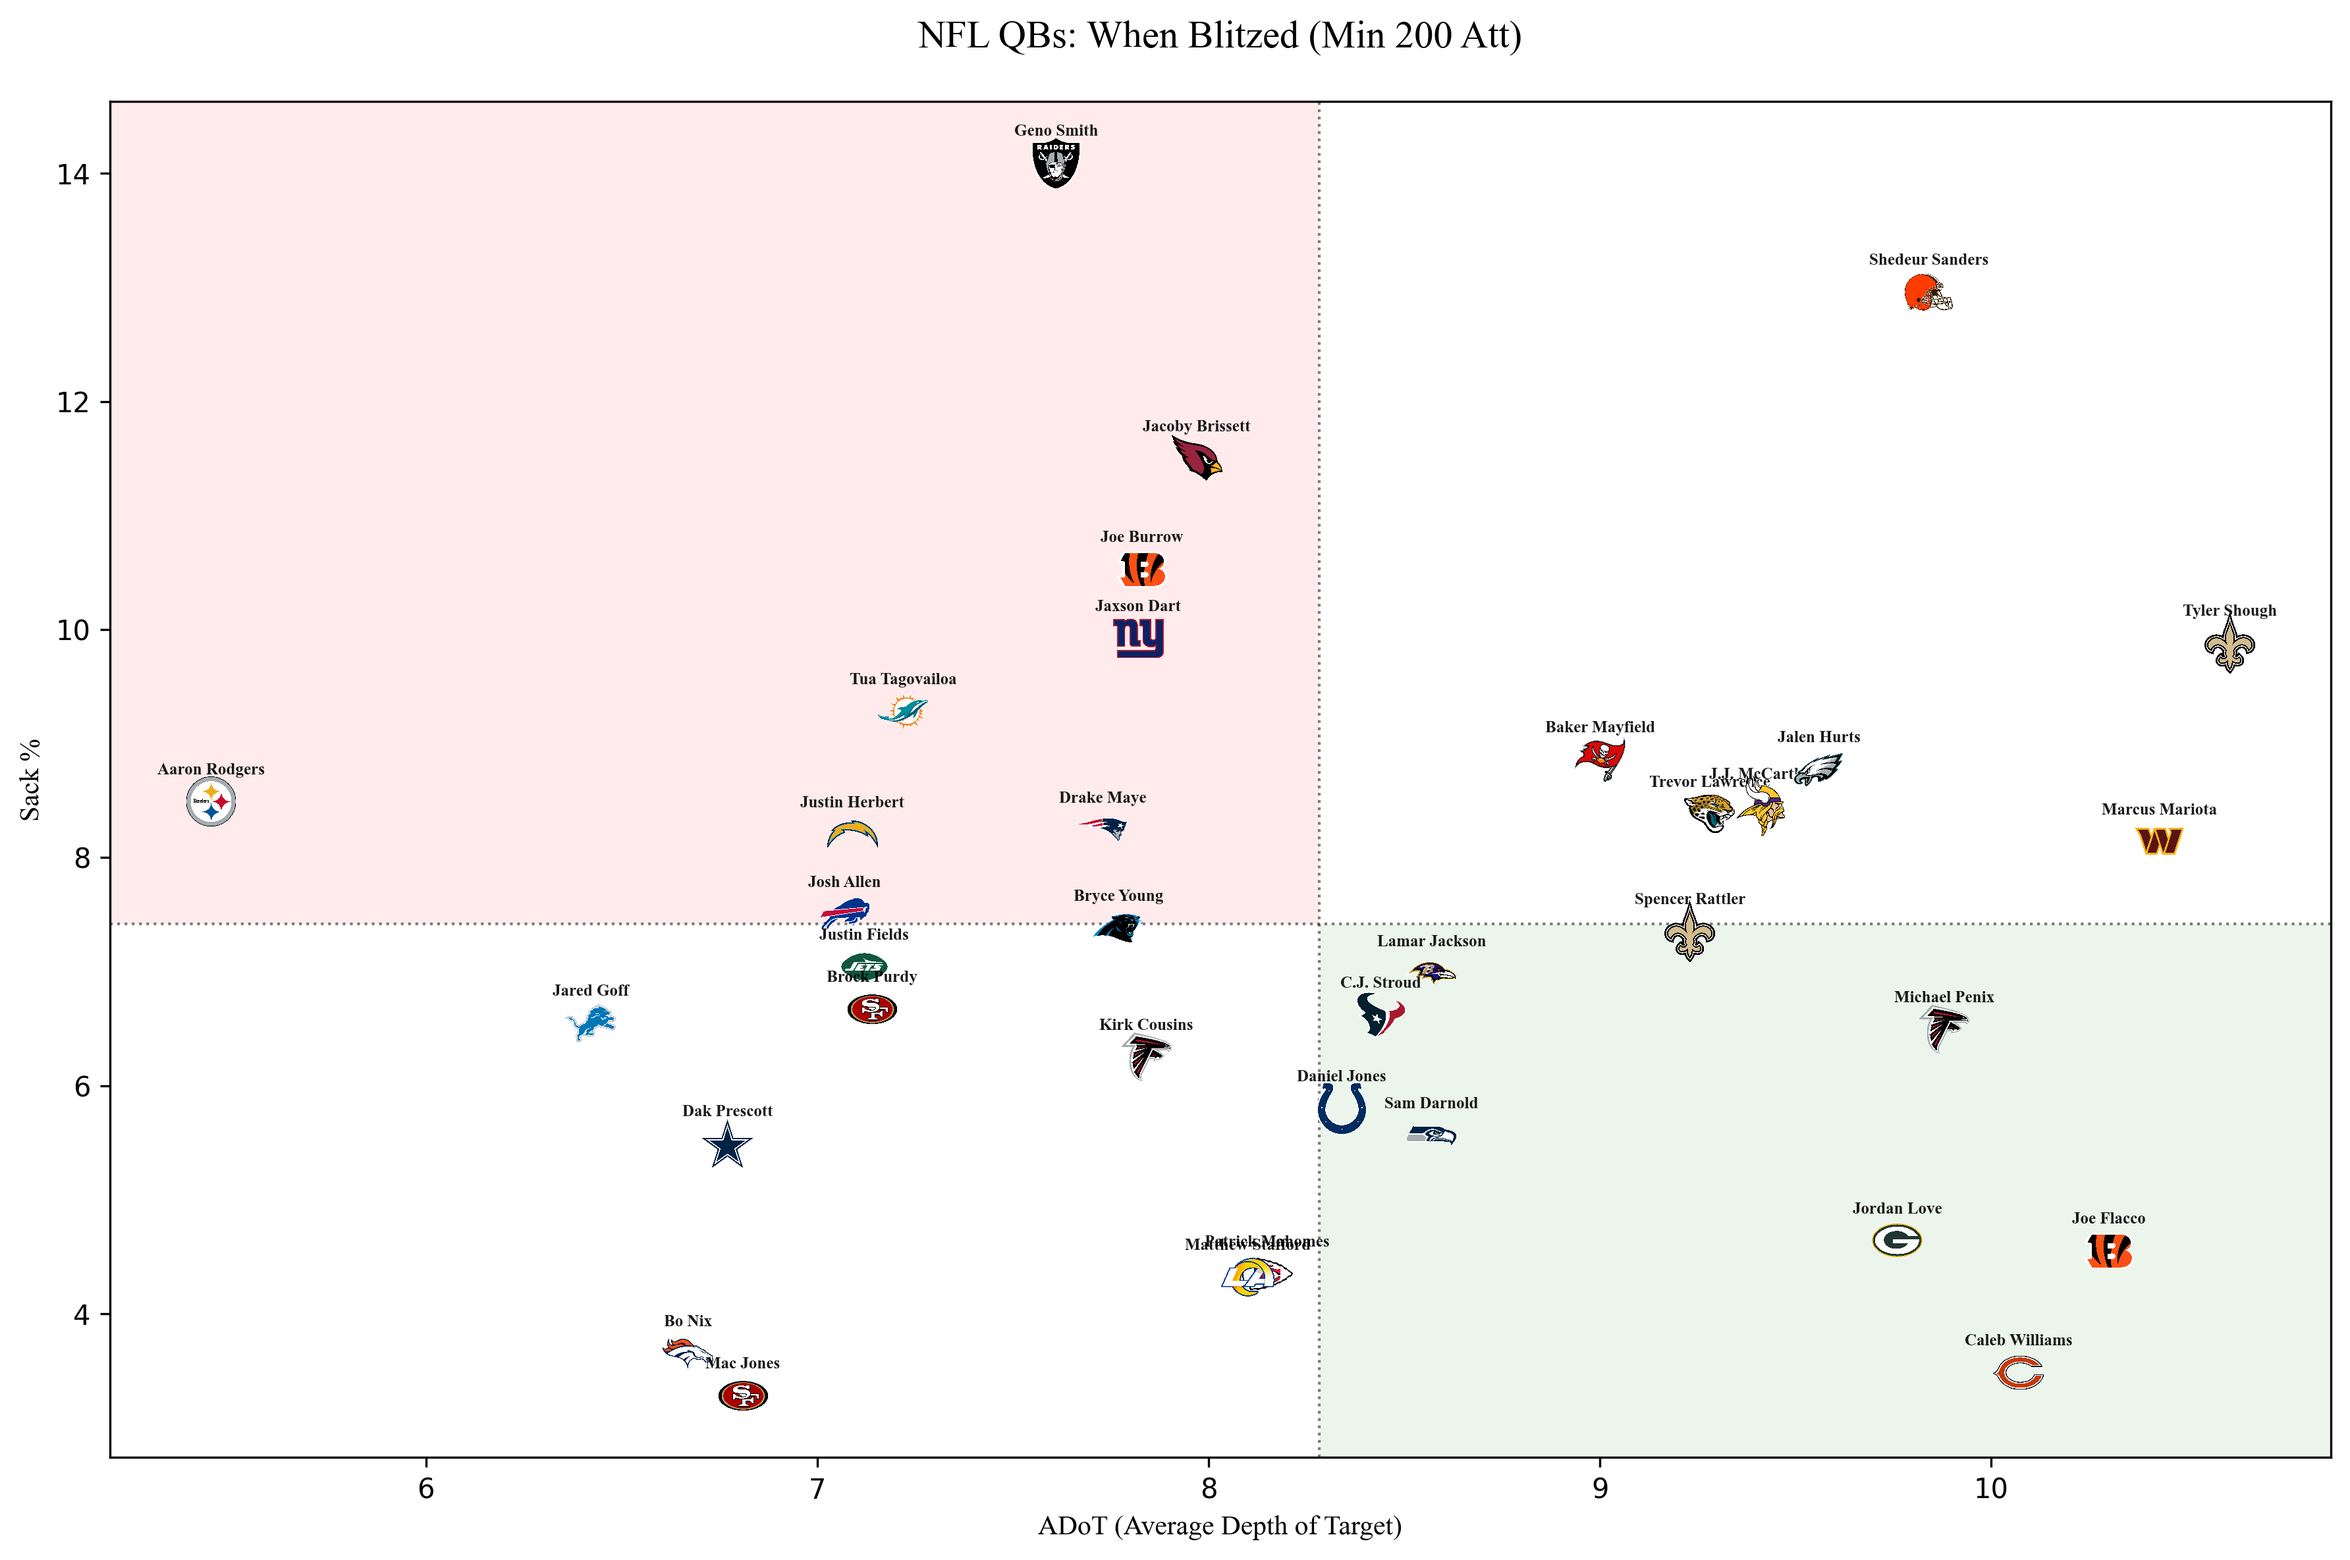
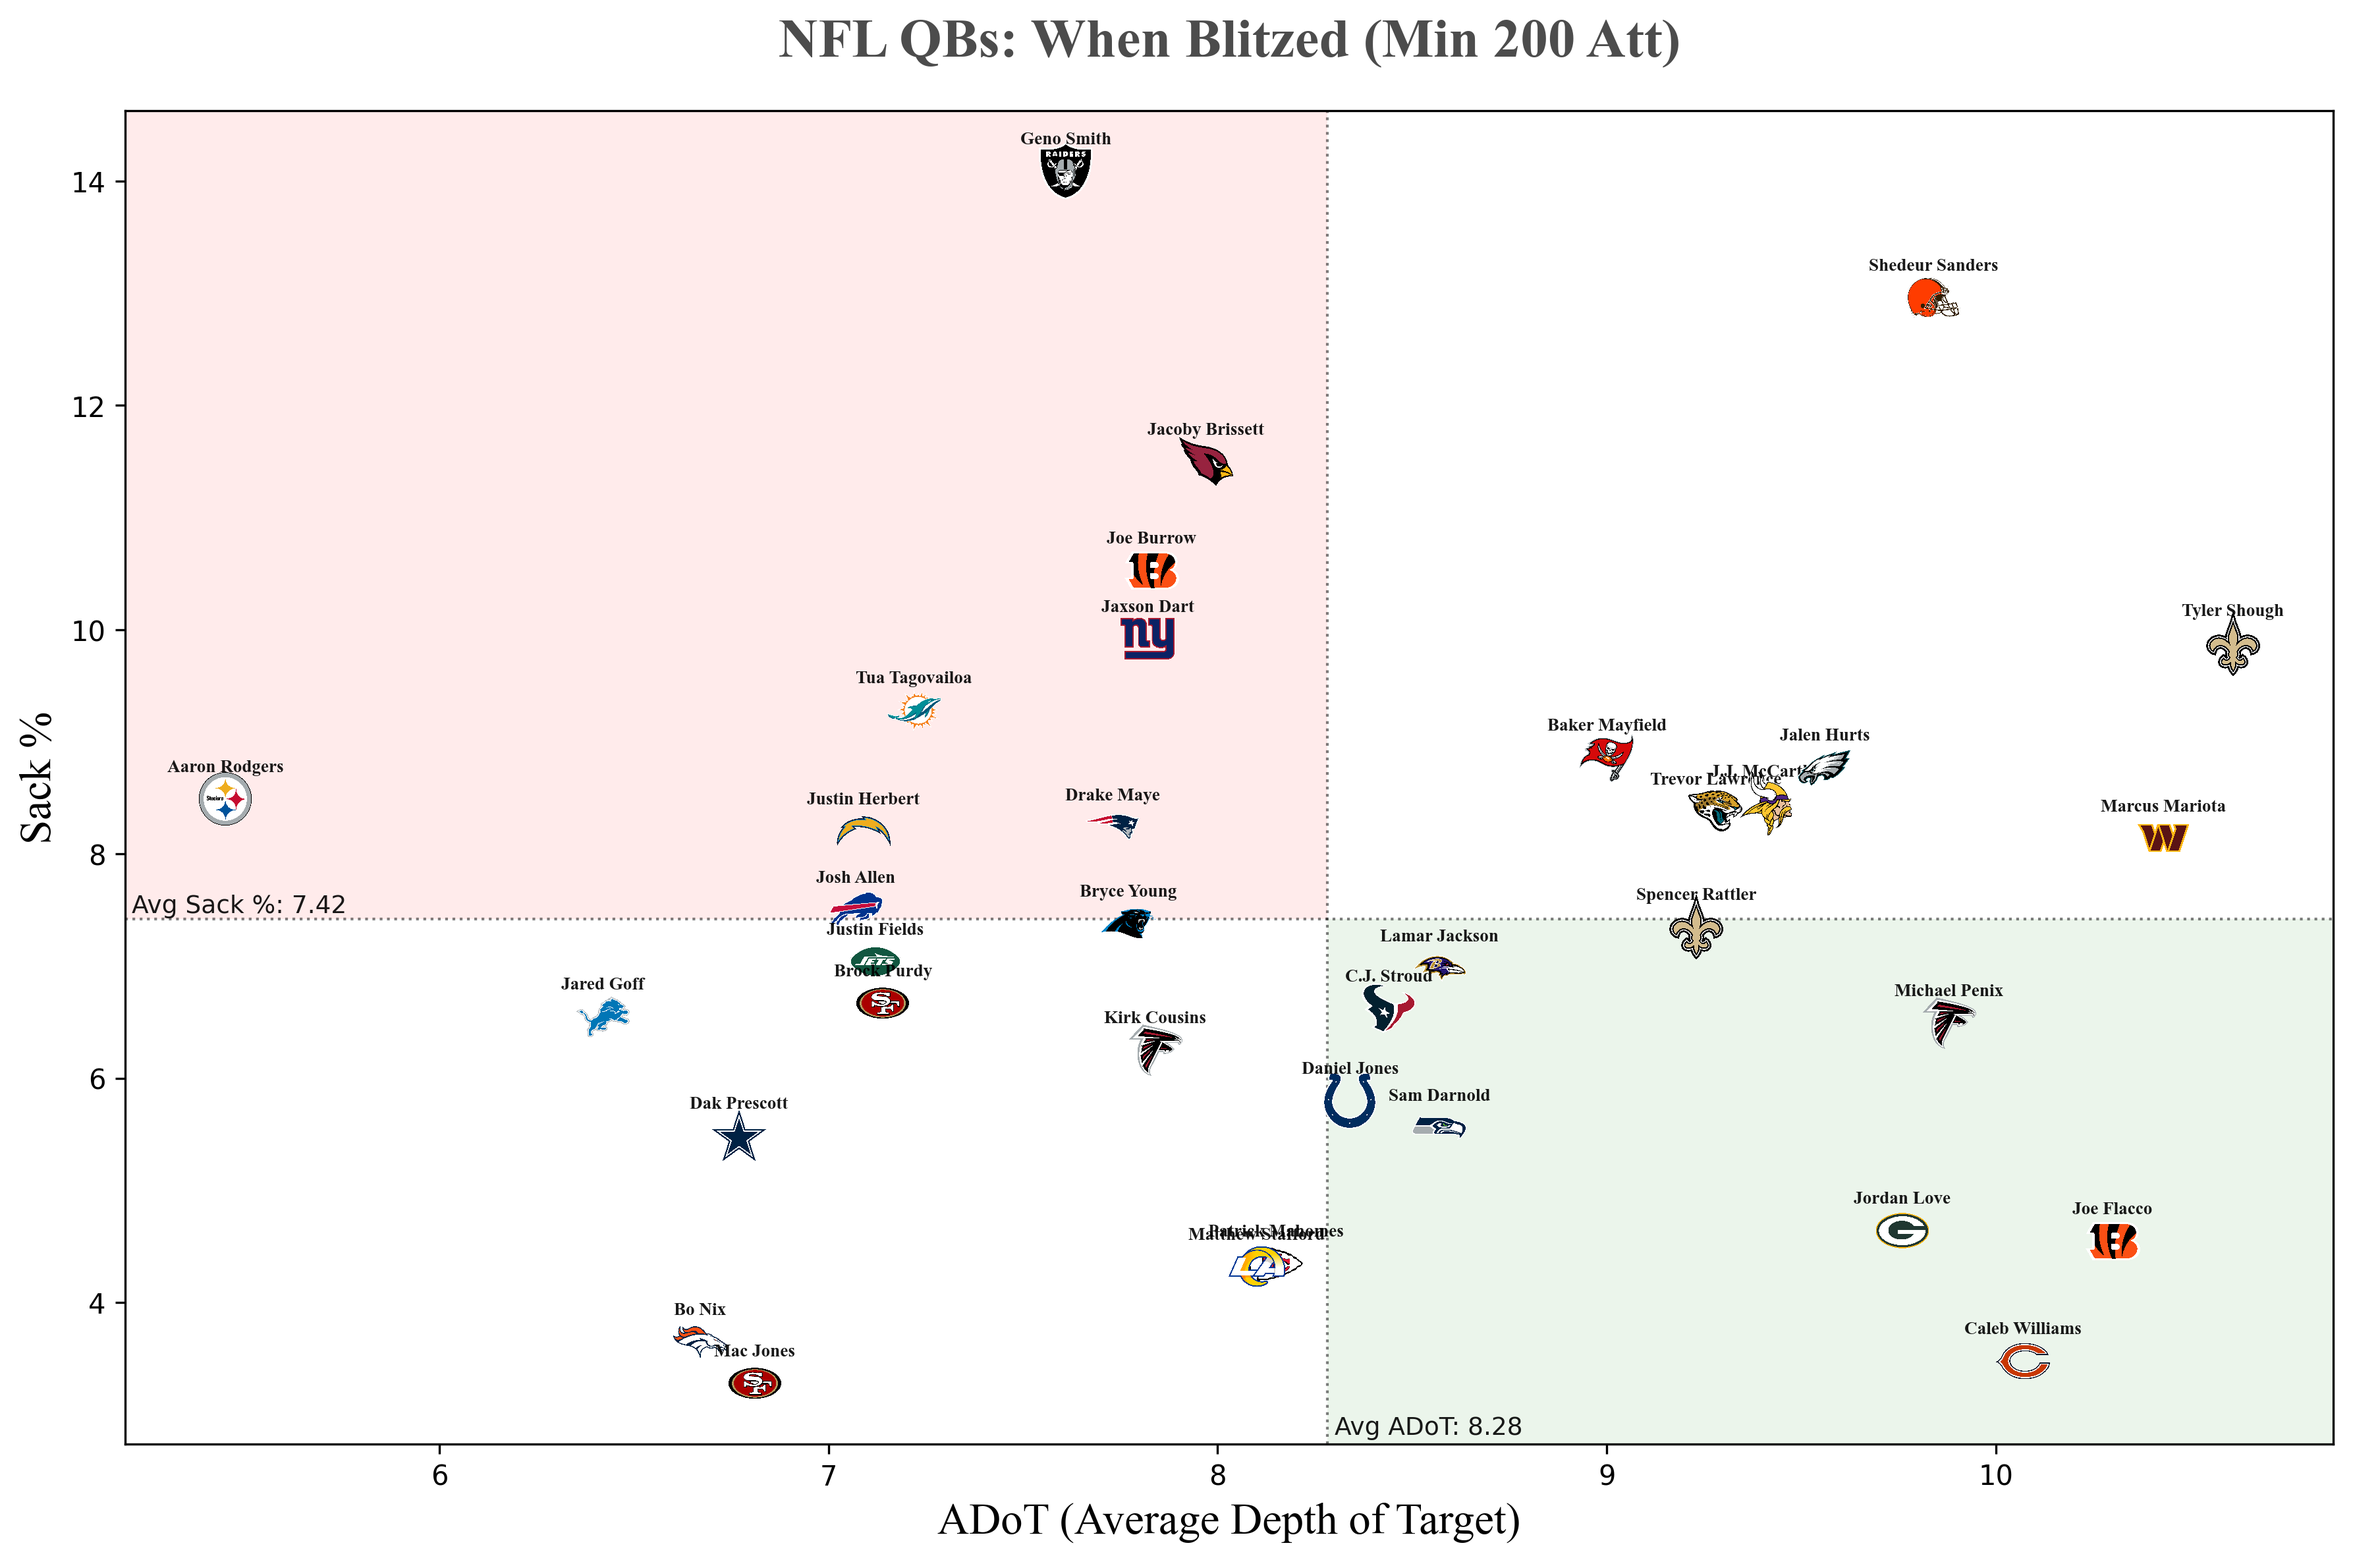
polished graphs

diff --git a/notebooks/positive_stats.py b/notebooks/positive_stats.py
@@ -85,7 +85,7 @@ def create_qb_scatter(df):
     # --- 2. Setup Averages and Distances ---
     x_mean = x.mean()
     y_mean = y.mean()
-    
+    print(y_mean)
     # Calculate distance from center to identify outliers
     # (Using the x and y variables we just defined)
     df['dist'] = np.sqrt((x - x_mean)**2 + (y - y_mean)**2)
@@ -109,38 +109,56 @@ def create_qb_scatter(df):
         
         if logo_file.exists():
             img = Image.open(logo_file).convert("RGBA")
-            imagebox = OffsetImage(img, zoom=0.0085) 
+            imagebox = OffsetImage(img, zoom=0.009) 
             ab = AnnotationBbox(imagebox, (current_x, current_y), 
                                frameon=False, zorder=z_val)
             ax.add_artist(ab)
             
-        # Selective Annotation (Labeling outliers only)
+    
         if row['dist'] > 0.04: 
             ax.annotate(row['Player'], (current_x, current_y), 
-                       fontsize=6, fontfamily='Times New Roman', fontweight='semibold', alpha=0.9,
+                       fontsize=6.5, fontfamily='Times New Roman', fontweight='semibold', alpha=0.9,
                        xytext=(0, 10), textcoords='offset points', 
                        ha='center', zorder=z_val + 1)
-    
-    # --- 3. Final Styling ---
-    ax.set_xlabel('Success % (Offensive Efficiency)', fontfamily='Times New Roman')
-    ax.set_ylabel('EPA/Play (Individual Efficiency)', fontfamily='Times New Roman')
-    ax.set_title('NFL QBs: Efficiency When Trailing (Min 200 Att)', fontsize=14, pad=20, fontfamily='Times New Roman')
-    
-    # Vertical and Horizontal Mean Lines
+  
+    ax.set_xlabel('Success % (Offensive Efficiency)', fontsize = 16, fontfamily='Times New Roman')
+    ax.set_ylabel('EPA/Play (Individual Efficiency)', fontsize = 16 ,fontfamily='Times New Roman')
+    ax.set_title('NFL QBs: Efficiency When Trailing (Min 200 Att)', fontsize=20, fontweight = 'semibold', alpha = 0.7, pad=20, fontfamily='Times New Roman')
+
     ax.axhline(y=y_mean, color='black', linestyle=':', linewidth=1, alpha=0.5, zorder=1)
     ax.axvline(x=x_mean, color='black', linestyle=':', linewidth=1, alpha=0.5, zorder=1)
+    ax.text(
+    x=0+0.003,              
+    y=y_mean+0.006,            
+    s=f'Avg EPA/Play: {y_mean:.3f}', 
+    color='black',
+    va='center',         
+    ha='left',           
+    fontsize=9,
+    alpha=0.9,
+    transform=ax.get_yaxis_transform() 
+)
+
+    ax.text(
+    x=x_mean + 1.6,            
+    y=0+0.003,             
+    s=f'Avg Success %: {x_mean:.2f}', 
+    color='black',
+    va='bottom',         
+    ha='center',         
+    fontsize=9,
+    alpha=0.9,
+    transform=ax.get_xaxis_transform()
+)
     
     left, right = ax.get_xlim()
     bottom, top = ax.get_ylim()
 
-# 2. Add 'Elite' Region (Top Right)
-# Anchor point is (x_mean, y_mean), then we calculate width/height to the edge
     elite_rect = patches.Rectangle((x_mean, y_mean), right - x_mean, top - y_mean, 
                                linewidth=0, facecolor='green', alpha=0.08, zorder=0)
     ax.add_patch(elite_rect)
 
-# 3. Add 'Struggling' Region (Bottom Left)
-# Anchor point is (left, bottom), width/height goes up to the means
+
     struggle_rect = patches.Rectangle((left, bottom), x_mean - left, y_mean - bottom, 
                                   linewidth=0, facecolor='red', alpha=0.08, zorder=0)
     ax.add_patch(struggle_rect)

diff --git a/notebooks/negative_stats.py b/notebooks/negative_stats.py
@@ -53,14 +53,14 @@ def cleaned_data_negative():
 
     df_adv_passing= promote_first_row_to_header(df_adv_passing)
     df_adv_passing = df_adv_passing[df_adv_passing['Team'] != '2TM']
+    print(df_adv_passing[df_adv_passing['Player'] == 'J.J. McCarthy']['Bad%'])
     df_final_negative = df_passing[['Player', 'Team', 'Att']].merge(df_adv_passing[['Player', 'Bad%']], on='Player', how='left')
     df_final_negative = qb_stats_sumer[['Player', 'Time To Throw']].merge(df_final_negative, on='Player', how='left')
     df_final_negative = df_final_negative[df_final_negative['Att'] >= 200]
     df_final_negative['Time To Throw'] = pd.to_numeric(df_final_negative['Time To Throw'], errors='coerce').astype(float)
     df_final_negative['Bad%'] = pd.to_numeric(df_final_negative['Bad%'], errors='coerce').astype(float)
     df_final_negative = df_final_negative.drop_duplicates(subset=['Player'])
-    print(df_final_negative)
-
+    print(df_final_negative.head())
     return df_final_negative
 
 def create_scatter_negative(df):
@@ -88,24 +88,47 @@ def create_scatter_negative(df):
         
         if logo_file.exists():
             img = Image.open(logo_file).convert("RGBA")
-            imagebox = OffsetImage(img, zoom=0.0085) 
+            imagebox = OffsetImage(img, zoom=0.009) 
             ab = AnnotationBbox(imagebox, (current_x, current_y), 
                                frameon=False, zorder=z_val)
             ax.add_artist(ab)
             
         if row['dist'] > 0.04: 
             ax.annotate(row['Player'], (current_x, current_y), 
-                       fontsize=6, fontfamily='Times New Roman', fontweight='semibold', alpha=0.9,
+                       fontsize=6.5, fontfamily='Times New Roman', fontweight='semibold', alpha=0.9,
                        xytext=(0, 10), textcoords='offset points', 
                        ha='center', zorder=z_val + 1)
 
-    ax.set_xlabel('Time To Throw (Seconds)', fontfamily='Times New Roman')
-    ax.set_ylabel('Bad%', fontfamily='Times New Roman')
-    ax.set_title('NFL QBs: Standard (Min 200 Att)', fontsize=14, pad=20, fontfamily='Times New Roman')
+    ax.set_xlabel('Time To Throw (Seconds)', fontsize = 16, fontfamily='Times New Roman')
+    ax.set_ylabel('Bad% (Bad Throw Percentage)', fontsize=16, fontfamily='Times New Roman')
+    ax.set_title('NFL QBs: Standard (Min 200 Att)', fontsize=20, fontweight = 'semibold', alpha = 0.7, pad=20, fontfamily='Times New Roman')
 
     ax.axhline(y=y_mean, color='black', linestyle=':', linewidth=1, alpha=0.5, zorder=1)
     ax.axvline(x=x_mean, color='black', linestyle=':', linewidth=1, alpha=0.5, zorder=1)
     
+    ax.text(
+    x=0+0.88,              
+    y=y_mean+0.15,            
+    s=f'Avg BadTh%: {y_mean:.2f}', 
+    color='black',
+    va='center',         
+    ha='left',           
+    fontsize=9,
+    alpha=0.9,
+    transform=ax.get_yaxis_transform() 
+)
+
+    ax.text(
+    x=x_mean+0.051,            
+    y=0+0.003,             
+    s=f'Avg Time to Throw: {x_mean:.2f}', 
+    color='black',
+    va='bottom',         
+    ha='center',         
+    fontsize=9,
+    alpha=0.9,
+    transform=ax.get_xaxis_transform()
+)
     left, right = ax.get_xlim()
     bottom, top = ax.get_ylim()
 

diff --git a/notebooks/blitz_stats.py b/notebooks/blitz_stats.py
@@ -86,24 +86,47 @@ def create_scatter_blitz(df):
         
         if logo_file.exists():
             img = Image.open(logo_file).convert("RGBA")
-            imagebox = OffsetImage(img, zoom=0.0085) 
+            imagebox = OffsetImage(img, zoom=0.009) 
             ab = AnnotationBbox(imagebox, (current_x, current_y), 
                                frameon=False, zorder=z_val)
             ax.add_artist(ab)
             
         if row['dist'] > 0.04: 
             ax.annotate(row['Player'], (current_x, current_y), 
-                       fontsize=6, fontfamily='Times New Roman', fontweight='semibold', alpha=0.9,
+                       fontsize=6.5, fontfamily='Times New Roman', fontweight='semibold', alpha=0.9,
                        xytext=(0, 10), textcoords='offset points', 
                        ha='center', zorder=z_val + 1)
     
-    ax.set_xlabel('ADoT (Average Depth of Target)', fontfamily='Times New Roman')
-    ax.set_ylabel('Sack %', fontfamily='Times New Roman')
-    ax.set_title('NFL QBs: When Blitzed (Min 200 Att)', fontsize=14, pad=20, fontfamily='Times New Roman')
+    ax.set_xlabel('ADoT (Average Depth of Target)', fontsize = 16, fontfamily='Times New Roman')
+    ax.set_ylabel('Sack %', fontsize = 16, fontfamily='Times New Roman')
+    ax.set_title('NFL QBs: When Blitzed (Min 200 Att)', fontsize=20, fontweight = 'semibold', alpha = 0.7, pad=20, fontfamily='Times New Roman')
     
     ax.axhline(y=y_mean, color='black', linestyle=':', linewidth=1, alpha=0.5, zorder=1)
     ax.axvline(x=x_mean, color='black', linestyle=':', linewidth=1, alpha=0.5, zorder=1)
     
+    ax.text(
+    x=0+0.003,              
+    y=y_mean+0.12,            
+    s=f'Avg Sack %: {y_mean:.2f}', 
+    color='black',
+    va='center',         
+    ha='left',           
+    fontsize=9,
+    alpha=0.9,
+    transform=ax.get_yaxis_transform() 
+)
+
+    ax.text(
+    x=x_mean + 0.26,            
+    y=0+0.003,             
+    s=f'Avg ADoT: {x_mean:.2f}', 
+    color='black',
+    va='bottom',         
+    ha='center',         
+    fontsize=9,
+    alpha=0.9,
+    transform=ax.get_xaxis_transform()
+)
     left, right = ax.get_xlim()
     bottom, top = ax.get_ylim()
 
